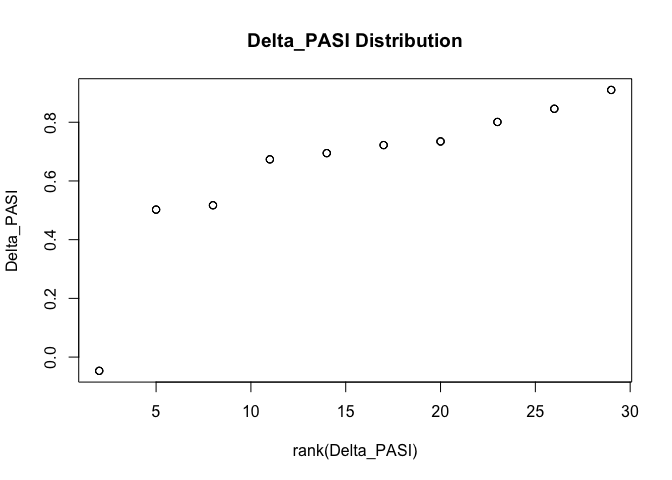
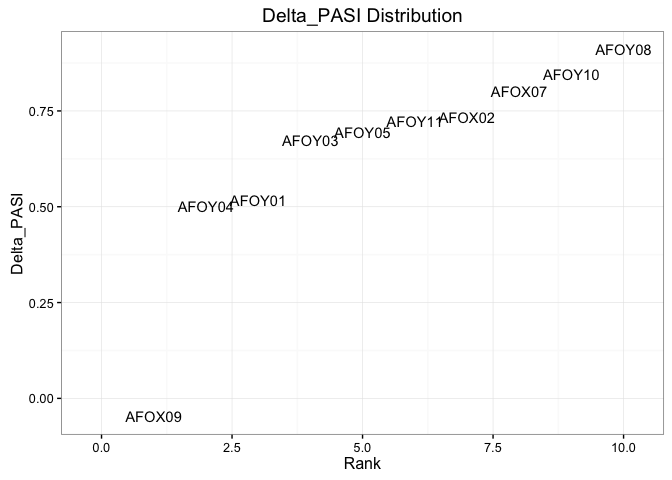
update

diff --git a/Scripts/Analysis.md b/Scripts/Analysis.md
@@ -37,10 +37,13 @@ The following represents a first draft of our DESeq analysis pipeline for these 
 ``` r
 # Load libraries
 library(readr)
-library(dplyr)
 library(tximport)
+library(ggplot2)
 library(sva)
 library(DESeq2)
+library(IHW)
+library(gridExtra)
+library(dplyr)
 ```
 
 Data Preparation
@@ -56,7 +59,7 @@ Following RNA-seqencing of all samples, reads were pseudo-aligned using [kallist
 -   a subdirectory with folders corresponding to the kallisto output for each sample ('LesionalSkin').
 
 ``` r
-pheno <- read_csv('Clinical_factors_Pre_PSORT_Amy_v6_26_7_16.csv')
+pheno <- read_csv('Clinical_factors_Pre_PSORT_Amy_v7_15_8_16.csv')
 t2g <- read_tsv('Transcripts.tsv')
 dir <- paste(getwd(), 'LesionalSkin', sep='/')
 files <- file.path(dir, pheno$sample, 'abundance.tsv')
@@ -77,7 +80,16 @@ During our study, I also recorded additional response measurements including the
 The distribution of our cohort's percent change in PASI scores between baseline and week 12 (a variable labeled 'Delta\_PASI' in our clinical factors file) suggests that a binary response measure would be completely arbitrary.
 
 ``` r
-plot(Delta_PASI ~ rank(Delta_PASI), data=pheno, main='Delta_PASI Distribution')
+# Build pasi data frame
+pasi <- data.frame(Subject    = unique(pheno$subject),
+                   Baseline   = unique(pheno$PASI_A), 
+                   TwelveWeek = unique(pheno$PASI_C),
+                   DeltaPASI  = unique(pheno$Delta_PASI))
+
+# Plot rank vs. DeltaPASI
+ggplot(pasi, aes(rank(DeltaPASI), DeltaPASI, label=Subject)) + geom_text() +
+  labs(title='Delta_PASI Distribution', x='Rank', y='Delta_PASI') + 
+  xlim(-0.25, 10.25) + theme_bw()
 ```
 
 <p align='center'>
@@ -87,6 +99,74 @@ plot(Delta_PASI ~ rank(Delta_PASI), data=pheno, main='Delta_PASI Distribution')
 This plot, in conjunction with the fact that a single clinician recorded every PASI score in our dataset, led us to conclude that we should analyse response on a continuous scale.
 
 Based on our discussions at CSAMA, we considered transforming our response data to give it a more symmetrical distribution. However, one patient's disease worsened during treatment, resulting in a negative Delta\_PASI score. We considered adding a small value (e.g. ~ .05) to each patient's Delta\_PASI score in order to facilitate a log or Box-Cox transformation, but were unsure if this would be appropriate. For now, we have decided to measure response via simple percentage change.
+
+One simple way to visualise patient response is by plotting baseline vs. 12 week PASI scores. A straight diagonal line across the plot represents total stasis (i.e., 0 change in PASI) while a flat line with slope and intercept 0 would represent 100% improvement in PASI.
+
+``` r
+# Build zero-intercept model
+mod <- lm(TwelveWeek ~ 0 + Baseline, data=pasi)
+
+# Plot baseline vs. 12 week PASI scores
+ggplot(pasi, aes(Baseline, TwelveWeek, label=Subject)) + geom_text() + 
+  geom_abline(slope=1, intercept=0) + xlim(0, 40) + ylim(0, 40) + 
+  geom_abline(slope=mod$coef, intercept=0, colour='blue') + 
+  labs(title='Change in PASI', x='Baseline PASI', y='12 Week PASI') + theme_bw()
+```
+
+<p align='center'>
+<img src="Analysis_files/figure-markdown_github/deltpas2-1.png" style="display: block; margin: auto;" />
+</p>
+
+This plot indicates that patient improvement was roughly linear in our study, albeit with a notable outlier in patient AFOX09. The blue regression line has a slope of about .31, suggesting a least squares estimate of 69% expected improvement in PASI. (This number is closer to 72% if subject AFOX09 is removed.)
+
+DeltaPASI does not appear to depend on baseline PASI scores. We determine this both through informal plotting and statistical testing.
+
+``` r
+# Plot baseline vs. DeltaPASI
+ggplot(pasi, aes(Baseline, DeltaPASI, label=Subject)) + geom_text() + 
+  geom_smooth(method='lm', se=FALSE) + 
+  labs(title='Baseline vs. Delta_PASI', x='Baseline PASI', y='Delta_PASI') + theme_bw()
+```
+
+<p align='center'>
+<img src="Analysis_files/figure-markdown_github/deltpas3-1.png" style="display: block; margin: auto;" />
+</p>
+
+``` r
+# Correlation test
+cor.test(pasi$DeltaPASI, pasi$Baseline)
+```
+
+    ## 
+    ##  Pearson's product-moment correlation
+    ## 
+    ## data:  pasi$DeltaPASI and pasi$Baseline
+    ## t = 0.76564, df = 8, p-value = 0.4659
+    ## alternative hypothesis: true correlation is not equal to 0
+    ## 95 percent confidence interval:
+    ##  -0.4408655  0.7650534
+    ## sample estimates:
+    ##       cor 
+    ## 0.2612898
+
+In fact, what little semblance of a relationship the two variables may appear to have in the plot completely disappears when our outlying observation is removed.
+
+``` r
+# Correlation test, take 2
+cor.test(pasi$DeltaPASI[-8], pasi$Baseline[-8])
+```
+
+    ## 
+    ##  Pearson's product-moment correlation
+    ## 
+    ## data:  pasi$DeltaPASI[-8] and pasi$Baseline[-8]
+    ## t = -0.020407, df = 7, p-value = 0.9843
+    ## alternative hypothesis: true correlation is not equal to 0
+    ## 95 percent confidence interval:
+    ##  -0.6684108  0.6597884
+    ## sample estimates:
+    ##          cor 
+    ## -0.007712975
 
 ### Time Course Analysis
 
@@ -99,9 +179,10 @@ pheno <- pheno %>%
          wk12.Delta_PASI = ifelse(time == 'wk12', Delta_PASI, 0))
 ```
 
-This solution produces some sensible results (see below), but strikes us as somewhat sloppy and ad hoc. We are currently unaware of any better workaround than this, however we remain very open to any and all suggestions.
+This solution produces some sensible results, but strikes us as somewhat sloppy and ad hoc. We are currently unaware of any better workaround than this, however we remain very open to any and all suggestions.
 
-### Surrogate Variable Analysis (SVA)
+Surrogate Variable Analysis
+---------------------------
 
 We incorporate surrogate variables to account for unknown batch variation. Because our study involves repeat observations, we include 'subject' as a covariate in our null and full design matrices.
 
@@ -110,7 +191,7 @@ We incorporate surrogate variables to account for unknown batch variation. Becau
 dds <- DESeqDataSetFromTximport(txi, colData=pheno, design= ~ subject + wk0.Delta_PASI)
 dds <- estimateSizeFactors(dds)
 dat <- counts(dds, normalized=TRUE)
-dat <- dat[rowMeans(dat) > 1, ]
+dat <- dat[rowVars(dat) > 1, ]  # This was a mean filter in the previous script
 
 # Run SVA
 mod <- model.matrix(~ subject + wk0.Delta_PASI, data=pheno)
@@ -136,7 +217,7 @@ Our data is now ready to be run through the DESeq2 pipeline.
 dds <- DESeqDataSetFromTximport(txi, colData=pheno, 
                                 design= ~ subject + SV1 + SV2 + SV3 + SV4 + SV5 + wk0.Delta_PASI)
 dds <- DESeq(dds)
-res <- data.frame(results(dds))
+res <- data.frame(results(dds, filterFun=ihw))
 res <- res[order(res$pvalue), ]
 ```
 
@@ -146,12 +227,62 @@ Let's take a look at the genes declared significantly differentially expressed a
 na.omit(res[res$padj < .05, ])
 ```
 
-    ##                baseMean log2FoldChange      lfcSE      stat       pvalue       padj
-    ## IL19          208.31438      0.4149432 0.08545319  4.855795 1.199044e-06 0.01946012
-    ## CCL13         680.30633     -0.5367886 0.11168661 -4.806204 1.538228e-06 0.01946012
-    ## DAPL1        1399.86716     -0.4551021 0.10001398 -4.550385 5.354796e-06 0.04516235
-    ## RP11-90P5.2    45.83283     -0.4833996 0.11016934 -4.387787 1.145098e-05 0.04934219
-    ## IGLC1         233.76316      0.3606724 0.08252708  4.370352 1.240462e-05 0.04934219
-    ## RP11-96D1.11  431.71814     -0.4238103 0.09773492 -4.336324 1.448851e-05 0.04934219
-    ## CFAP157        45.00021      0.4877030 0.11286840  4.320988 1.553324e-05 0.04934219
-    ## KRT84          14.78854      0.3253078 0.07530228  4.320027 1.560104e-05 0.04934219
+    ##          baseMean log2FoldChange      lfcSE      stat       pvalue
+    ## CCL13    680.3063     -0.7092988 0.12690036 -5.589415 2.278354e-08
+    ## ADNP2   1317.1824      0.4962049 0.09365880  5.298006 1.170742e-07
+    ## WBP11   1151.4050      0.3716361 0.07350310  5.056060 4.280067e-07
+    ## ESAM     304.5407      0.5234042 0.10403981  5.030807 4.884194e-07
+    ## IL19     208.3144      0.5290386 0.10583212  4.998847 5.767405e-07
+    ## IGLC1    233.7632      0.4839601 0.09975356  4.851557 1.224958e-06
+    ## DAPL1   1399.8672     -0.5094046 0.11042474 -4.613138 3.966340e-06
+    ## DAPP1   1229.9509     -0.4172611 0.09218295 -4.526445 5.998419e-06
+    ## EREG    3401.8610     -0.5191387 0.11611268 -4.470990 7.785828e-06
+    ## CTSH    2435.9297     -0.4217540 0.09702756 -4.346745 1.381728e-05
+    ## PCDHGC3 1403.9006      0.3575466 0.08626049  4.144964 3.398670e-05
+    ## OVOL1   2409.7039     -0.4679856 0.11347592 -4.124096 3.721933e-05
+    ## CISD2    848.1727     -0.3360152 0.08275952 -4.060139 4.904347e-05
+    ## MTMR1   1851.8285     -0.3319951 0.08396203 -3.954110 7.682013e-05
+    ##                 padj    weight
+    ## CCL13   0.0002691379 4.4658251
+    ## ADNP2   0.0006125959 5.0409525
+    ## WBP11   0.0011431164 6.5840664
+    ## ESAM    0.0058716712 0.8776404
+    ## IL19    0.0015889655 4.7869775
+    ## IGLC1   0.0092038582 0.8776404
+    ## DAPL1   0.0067541227 5.1632731
+    ## DAPP1   0.0072690901 6.2189074
+    ## EREG    0.0094124153 4.8486030
+    ## CTSH    0.0117209788 6.2189074
+    ## PCDHGC3 0.0262094335 6.2189074
+    ## OVOL1   0.0316896631 5.1632731
+    ## CISD2   0.0444888398 4.4734460
+    ## MTMR1   0.0446288526 6.4861455
+
+We find here that using a variance rather than a mean filter during SVA has pushed a few more genes below the 5% FDR threshold. This is line with the findings of [Bourgon et al. (2010)](http://www.pnas.org/content/107/21/9546.long). Independent hypothesis weighting has also helped increase statistical power ([Ignatiadis et al., 2016](http://biorxiv.org/content/early/2016/03/30/034330)).
+
+To visualise the relationship between expression and Delta\_PASI, we first transform the counts. Below are scatterplots for the top four genes.
+
+``` r
+# Transform counts
+rld <- rlog(dds)
+
+# Prep plot
+rld <- as.data.frame(t(assay(rld)))
+top <- data.frame(CCL13=rld$CCL13, ADNP2=rld$ADNP2, WBP11=rld$WBP11, ESAM=rld$ESAM,
+                  DeltaPASI=pheno$Delta_PASI, Time=pheno$time) 
+
+# Create plots
+g1 <- ggplot(top, aes(DeltaPASI, CCL13, colour=Time)) + geom_point() + 
+  labs(title='CCL13', y='Expression') + theme_bw()
+g2 <- ggplot(top, aes(DeltaPASI, ADNP2, colour=Time)) + geom_point() + 
+  labs(title='ADNP2', y='Expression') + theme_bw()
+g3 <- ggplot(top, aes(DeltaPASI, WBP11, colour=Time)) + geom_point() + 
+  labs(title='WBP11', y='Expression') + theme_bw()
+g4 <- ggplot(top, aes(DeltaPASI, ESAM, colour=Time)) + geom_point() + 
+  labs(title='ESAM', y='Expression') + theme_bw()
+
+grid.arrange(g1, g2, g3, g4, nrow=2, ncol=2)
+```
+<p align='center'>
+<img src="Analysis_files/figure-markdown_github/expr-1.png" style="display: block; margin: auto;" />
+</p>
